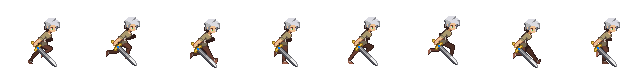
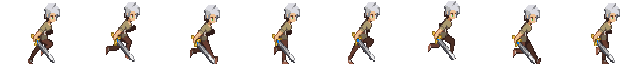
Modification to the platform class and minnor tweaks to game and player

diff --git a/lib/player.dart b/lib/player.dart
@@ -1,7 +1,7 @@
 import 'package:flame/components.dart';
 import 'package:neurunner/game.dart';
 
-const double gravity = 2000;
+const double gravity = 1000;
 
 class NeurunnerPlayer extends SpriteAnimationComponent
     with HasGameRef<NeurunnerGame> {
@@ -10,10 +10,8 @@ class NeurunnerPlayer extends SpriteAnimationComponent
 
   NeurunnerPlayer()
       : super(
-          size: Vector2.all(60),
-          anchor: Anchor.center,
-          scale: Vector2.all(2),
-          position: Vector2(0, 0),
+          size: Vector2.all(64),
+          anchor: Anchor.topCenter,
         );
 
   @override
@@ -31,10 +29,10 @@ class NeurunnerPlayer extends SpriteAnimationComponent
   @override
   void onGameResize(Vector2 size) {
     super.onGameResize(size);
-    // We don't need to set the position in the constructor, we can set it directly here since it will
+    // We don't need to set the position and size in the constructor, we can set it directly here since it will
     // be called once before the first time it is rendered.
-    super.position = Vector2(size.x / 2, size.y * 0.825);
-    super.size = Vector2.all(size.y * 0.125);
+    super.position = Vector2(gameRef.size.x / 4, gameRef.size.y / 2);
+    super.size = Vector2.all(gameRef.size.y / 8);
   }
 
   @override
@@ -47,45 +45,49 @@ class NeurunnerPlayer extends SpriteAnimationComponent
     position.y += velocityY * dt;
 
     if (isOnGround()) {
-      position.y = gameRef.canvasSize.y * 0.825;
+      position.y = (gameRef.size.y - gameRef.size.y / 9 - gameRef.size.y / 10);
       velocityY = 0;
     }
 
     if (isMaxHeight()) {
-      position.y = size.y / 1.9;
+      position.y = 0;
       velocityY = 0;
     }
   }
 
   bool isOnGround() {
-    return (position.y >= gameRef.canvasSize.y * 0.825);
+    return (position.y >=
+        (gameRef.size.y - gameRef.size.y / 9 - gameRef.size.y / 10));
   }
 
   bool isMaxHeight() {
-    return (position.y <= size.y / 1.9);
+    return (position.y <= 0);
   }
 
   //
   void run() {
-    animation = SpriteAnimation.fromFrameData(
-      game.images.fromCache('player/run.png'),
-      SpriteAnimationData.sequenced(
-        amount: 8,
-        textureSize: Vector2(80, 80),
-        stepTime: 0.1,
-      ),
-    );
+    // animation = SpriteAnimation.fromFrameData(
+    //   game.images.fromCache('player/run.png'),
+    //   SpriteAnimationData.sequenced(
+    //     amount: 8,
+    //     textureSize: Vector2(80, 80),
+    //     stepTime: 0.1,
+    //   ),
+    // );
   }
 
   //Jump method, called when user taps on the screen
   void jump() {
     if (isOnGround()) {
-      velocityY = -700;
-      jumpCount = 1; // Set jump count to 1 on first jump
+      // First jump
+      velocityY = -400;
+      // Set jump count to 1 on first jump
+      jumpCount = 1; 
     } else if (jumpCount < 2) {
       // Allow double jump if jump count is less than 2
-      velocityY = -600;
-      jumpCount += 1; // Increment jump count on second jump
+      velocityY = -350;
+      // Increment jump count on second jump
+      jumpCount += 1; 
     }
   }
 

diff --git a/lib/game.dart b/lib/game.dart
@@ -2,22 +2,26 @@ import 'package:flame/components.dart';
 import 'package:flame/game.dart';
 import 'package:flame/input.dart';
 import 'package:flame/parallax.dart';
+import 'package:neurunner/platform.dart';
 import 'package:neurunner/player.dart';
 
 class NeurunnerGame extends FlameGame with TapDetector, HasCollisionDetection {
   NeurunnerGame();
   late NeurunnerPlayer player;
+  late Sprite tileSprite;
 
   @override
   Future<void> onLoad() async {
-    //Loading in the image assets
+    // Loading in the image assets
     await images.loadAll([
       'player/run.png',
+      'platforms/grass_tile_out_32x32.png',
+      'platforms/grass_tile_32x32.png',
     ]);
 
-    //camera.viewport = FixedResolutionViewport(Vector2(1920, 1080));
+    camera.viewport = FixedResolutionViewport(Vector2(640, 256));
 
-    //Loading in the parallax background
+    // Loading in the parallax background
     ParallaxComponent forestBackground = await loadParallaxComponent([
       ParallaxImageData('background/001_sky.png'),
       ParallaxImageData('background/002_shadow.png'),
@@ -28,15 +32,19 @@ class NeurunnerGame extends FlameGame with TapDetector, HasCollisionDetection {
       ParallaxImageData('background/007_trees_back.png'),
       ParallaxImageData('background/008_lights2.png'),
       ParallaxImageData('background/009_trees_front.png'),
-      ParallaxImageData('background/010_grass.png'),
-      ParallaxImageData('background/011_grass_shadow.png'),
       ParallaxImageData('background/012_leaves.png'),
     ],
-        baseVelocity: Vector2(150.0, 0),
+        baseVelocity: Vector2(100.0, 0),
+        
         velocityMultiplierDelta: Vector2(1.1, 1.0));
+
     add(forestBackground);
 
-    //Loading in the player sprite
+    // Adding the ground tiles
+    //List<Platform> groundTiles = Platform.generateGroundTiles(100, size.y);
+    //addAll(groundTiles);
+
+    // Loading in the player 
     player = NeurunnerPlayer();
     add(player);
   }
@@ -45,6 +53,5 @@ class NeurunnerGame extends FlameGame with TapDetector, HasCollisionDetection {
   void onTapDown(TapDownInfo info) {
     super.onTapDown(info);
     player.jump();
-    
   }
 }

diff --git a/lib/platform.dart b/lib/platform.dart
@@ -1,5 +1,47 @@
-import 'package:flame/game.dart';
+import 'package:flame/components.dart';
 
-class Platform {
+class Platform extends SpriteComponent with HasGameRef {
+  static Vector2 kTileSize = Vector2.all(64);
+  static const double velocity = 250;
 
+  Platform({
+    required Vector2 pos,
+  }) : super(
+          size: kTileSize,
+          position: pos,
+        );
+
+  @override
+  Future<void> onLoad() async {
+    final groundImage = game.images.fromCache('platforms/grass_tile_32x32.png');
+    sprite = Sprite(groundImage);
+    size = Vector2(64, gameRef.size.y/8) ;
+    
+  }
+
+  @override
+  void update(double dt) {
+    super.update(dt);
+
+    // move left at constant velocity
+    position.x -= velocity * dt;
+  }
+
+  static List<Platform> generateGroundTiles(int distance, double ySize) {
+    //Empty list for ground tiles
+    final groundTiles = <Platform>[];
+
+    for (int i = 0; i < distance; i++) {
+      // Calculate the position of the block
+      double xPos = i * 64;
+      double yPos = ySize - ySize/8;
+
+      // Create a horizontal platform block using the tile sprite
+      final groundTile = Platform(
+        pos: Vector2(xPos, yPos),
+      );
+      groundTiles.add(groundTile);
+    }
+    return groundTiles;
+  }
 }
